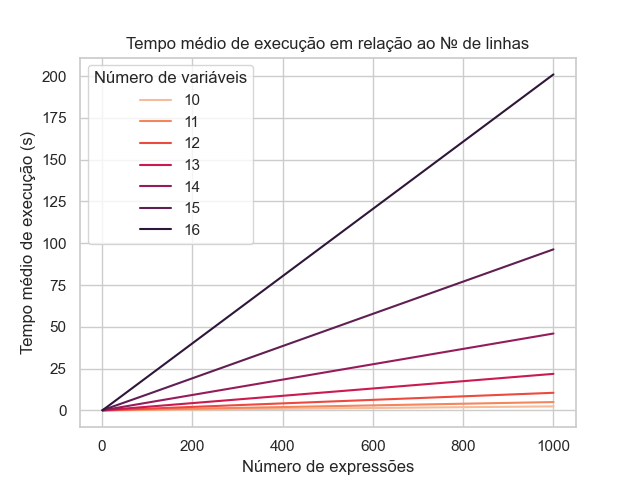
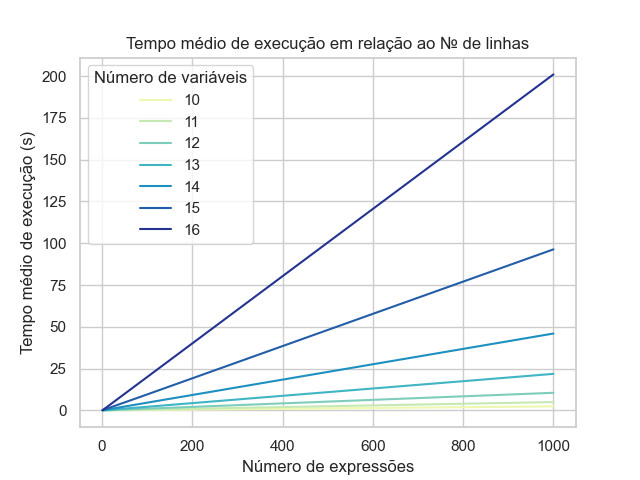
Resultados e Discussões

diff --git a/runtime_analysis/runtime_data_analysis.py b/runtime_analysis/runtime_data_analysis.py
@@ -9,7 +9,7 @@ df = pd.read_csv("avg_runtime_report.csv")
 # Seaborn save plot
 sns.set_theme(style="whitegrid")
 
-palette = sns.color_palette("rocket_r", 4)
+palette = sns.color_palette("YlGnBu", 4)
 
 sns_plot = sns.lineplot(x="n_vars", y="avg_time", hue="n_lines", palette=palette, data=df)
 # set title
@@ -31,20 +31,57 @@ sns_plot.figure.savefig("avg_runtime_n_vars_log.png")
 # clear
 sns_plot.clear()
 
+palette = sns.color_palette("YlGnBu", 7)
+
+sns_plot = sns.lineplot(x="n_lines", y="avg_time", hue="n_vars", palette=palette, data=df)
+# set title
+sns_plot.set_title("Tempo médio de execução em relação ao № de linhas")
+# set x label
+sns_plot.set_xlabel("Número de expressões")
+# set y label
+sns_plot.set_ylabel("Tempo médio de execução (s)")
+# set hue label
+sns_plot.legend(title="Número de variáveis")
+# save plot
+sns_plot.figure.savefig("avg_runtime_n_lines.png")
+
+
+sns_plot.set(xscale="log", yscale="log")
+# set title
+sns_plot.set_title("Tempo médio de execução em relação ao № de linhas (escala logarítmica)")
+sns_plot.figure.savefig("avg_runtime_n_lines_log.png")
+
+# clear plot
+sns_plot.clear()
+
+palette = sns.color_palette("YlGnBu", 2)
 
 # generate a list for n_vars from dataframe where n_lines=1000
 n_vars = df.loc[df['n_lines'] == 1000, 'n_vars'].tolist()
 # generate a list for avg_time from dataframe where n_lines=1000
 avg_time = df.loc[df['n_lines'] == 1000, 'avg_time'].tolist()
 
-# generate a list for f(x)=2^x
-x = [i for i in range(1, len(n_vars)+1)]
-y = [2**i for i in range(1, len(n_vars)+1)]
+y = [2**i for i in n_vars]
 
-f_x = [x, y]
+f_x = [n_vars, y]
 F_x = [n_vars, avg_time]
 # compute correlation coefficient between f(x) and F(x)
 corr = np.corrcoef(f_x, F_x)
+
+sns_plot.set(xscale="log", yscale="log")
+
+sns_plot = sns.lineplot(x=n_vars, y=y, color=palette[0], label="f(x)=2^x")
+sns_plot = sns.lineplot(x=n_vars, y=avg_time, palette=palette, label="F(x)")
+# set title
+sns_plot.set_title("Tempo médio de execução em relação ao № de variáveis (escala logarítmica)")
+# set x label
+sns_plot.set_xlabel("Número de variáveis")
+# set y label
+sns_plot.set_ylabel("Tempo médio de execução (s)")
+# set hue label
+sns_plot.legend(title="Número de expressões")
+# save plot
+sns_plot.figure.savefig("avg_runtime_n_vars_log_scatter.png")
 
 # plot correlation coefficient between f(x) and F(x)
 sns_plot = sns.heatmap(corr, annot=True, cmap="YlGnBu")
@@ -55,7 +92,7 @@ sns_plot.set_xlabel("f(n)=2^n")
 # set y label
 sns_plot.set_ylabel("Tempo de execução (s) por número de variáveis")
 # save plot
-sns_plot.figure.savefig("correlation_runtime_by_n_vars.png")
+#sns_plot.figure.savefig("correlation_runtime_by_n_vars.png")
 
 # mean correlation coefficient
 mean_corr = np.mean(corr)
@@ -63,6 +100,8 @@ print("Mean correlation coefficient: ", mean_corr)
 
 # clear plot
 sns_plot.clear()
+
+palette = sns.color_palette("YlGnBu", 2)
 
 # generate a list for n_lines from dataframe where n_vars=16
 n_lines = df.loc[df['n_vars'] == 16, 'n_lines'].tolist()
@@ -93,27 +132,4 @@ sns_plot.figure.savefig("correlation_runtime_by_n_lines.png")
 mean_corr = np.mean(corr)
 print("Mean correlation coefficient: ", mean_corr)
 
-sns_plot.clear()
-
-palette = sns.color_palette("rocket_r", 7)
-
-sns_plot = sns.lineplot(x="n_lines", y="avg_time", hue="n_vars", palette=palette, data=df)
-# set title
-sns_plot.set_title("Tempo médio de execução em relação ao № de linhas")
-# set x label
-sns_plot.set_xlabel("Número de expressões")
-# set y label
-sns_plot.set_ylabel("Tempo médio de execução (s)")
-# set hue label
-sns_plot.legend(title="Número de variáveis")
-# save plot
-sns_plot.figure.savefig("avg_runtime_n_lines.png")
-
-
-sns_plot.set(xscale="log", yscale="log")
-# set title
-sns_plot.set_title("Tempo médio de execução em relação ao № de linhas (escala logarítmica)")
-sns_plot.figure.savefig("avg_runtime_n_lines_log.png")
-
-# clear plot
 sns_plot.clear()
